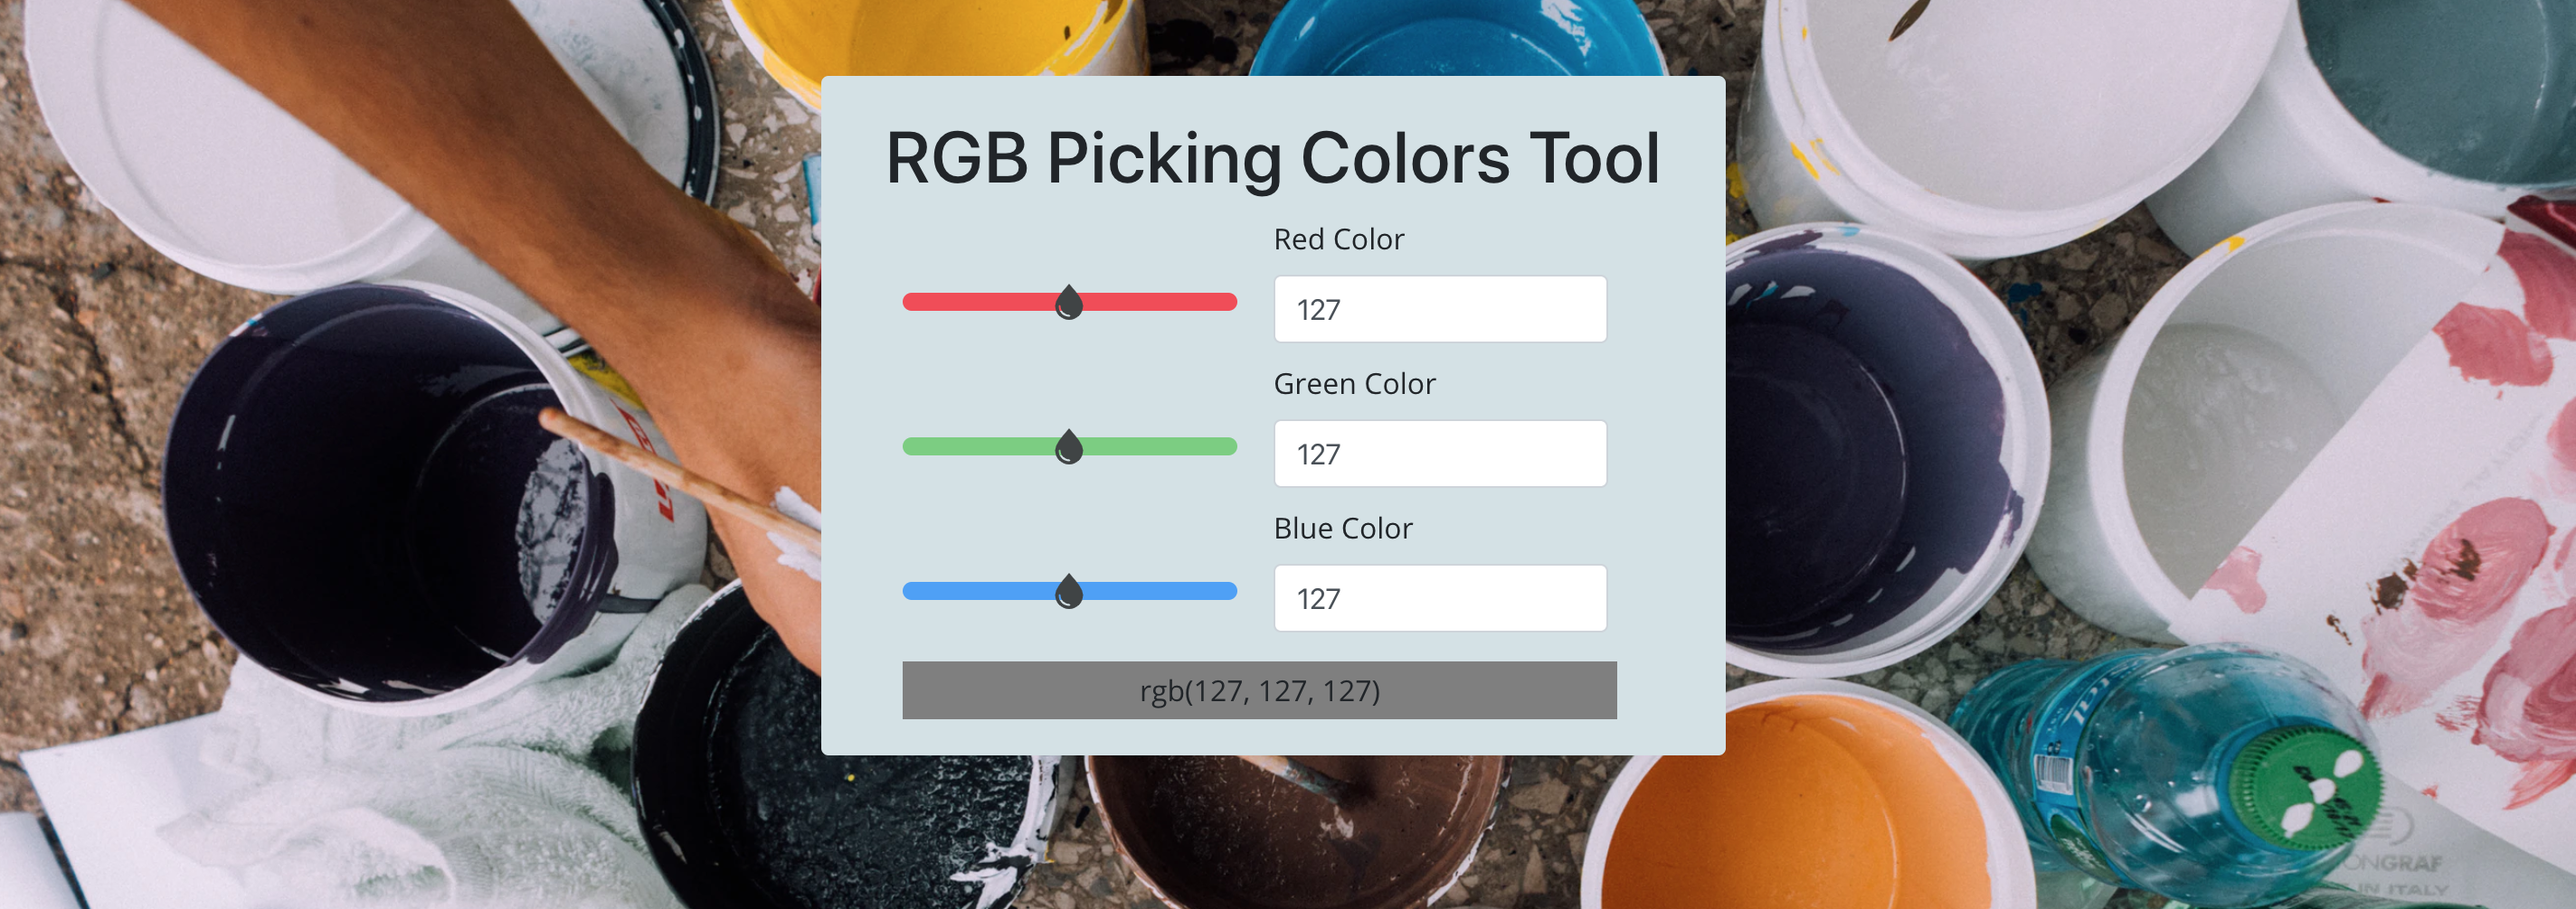
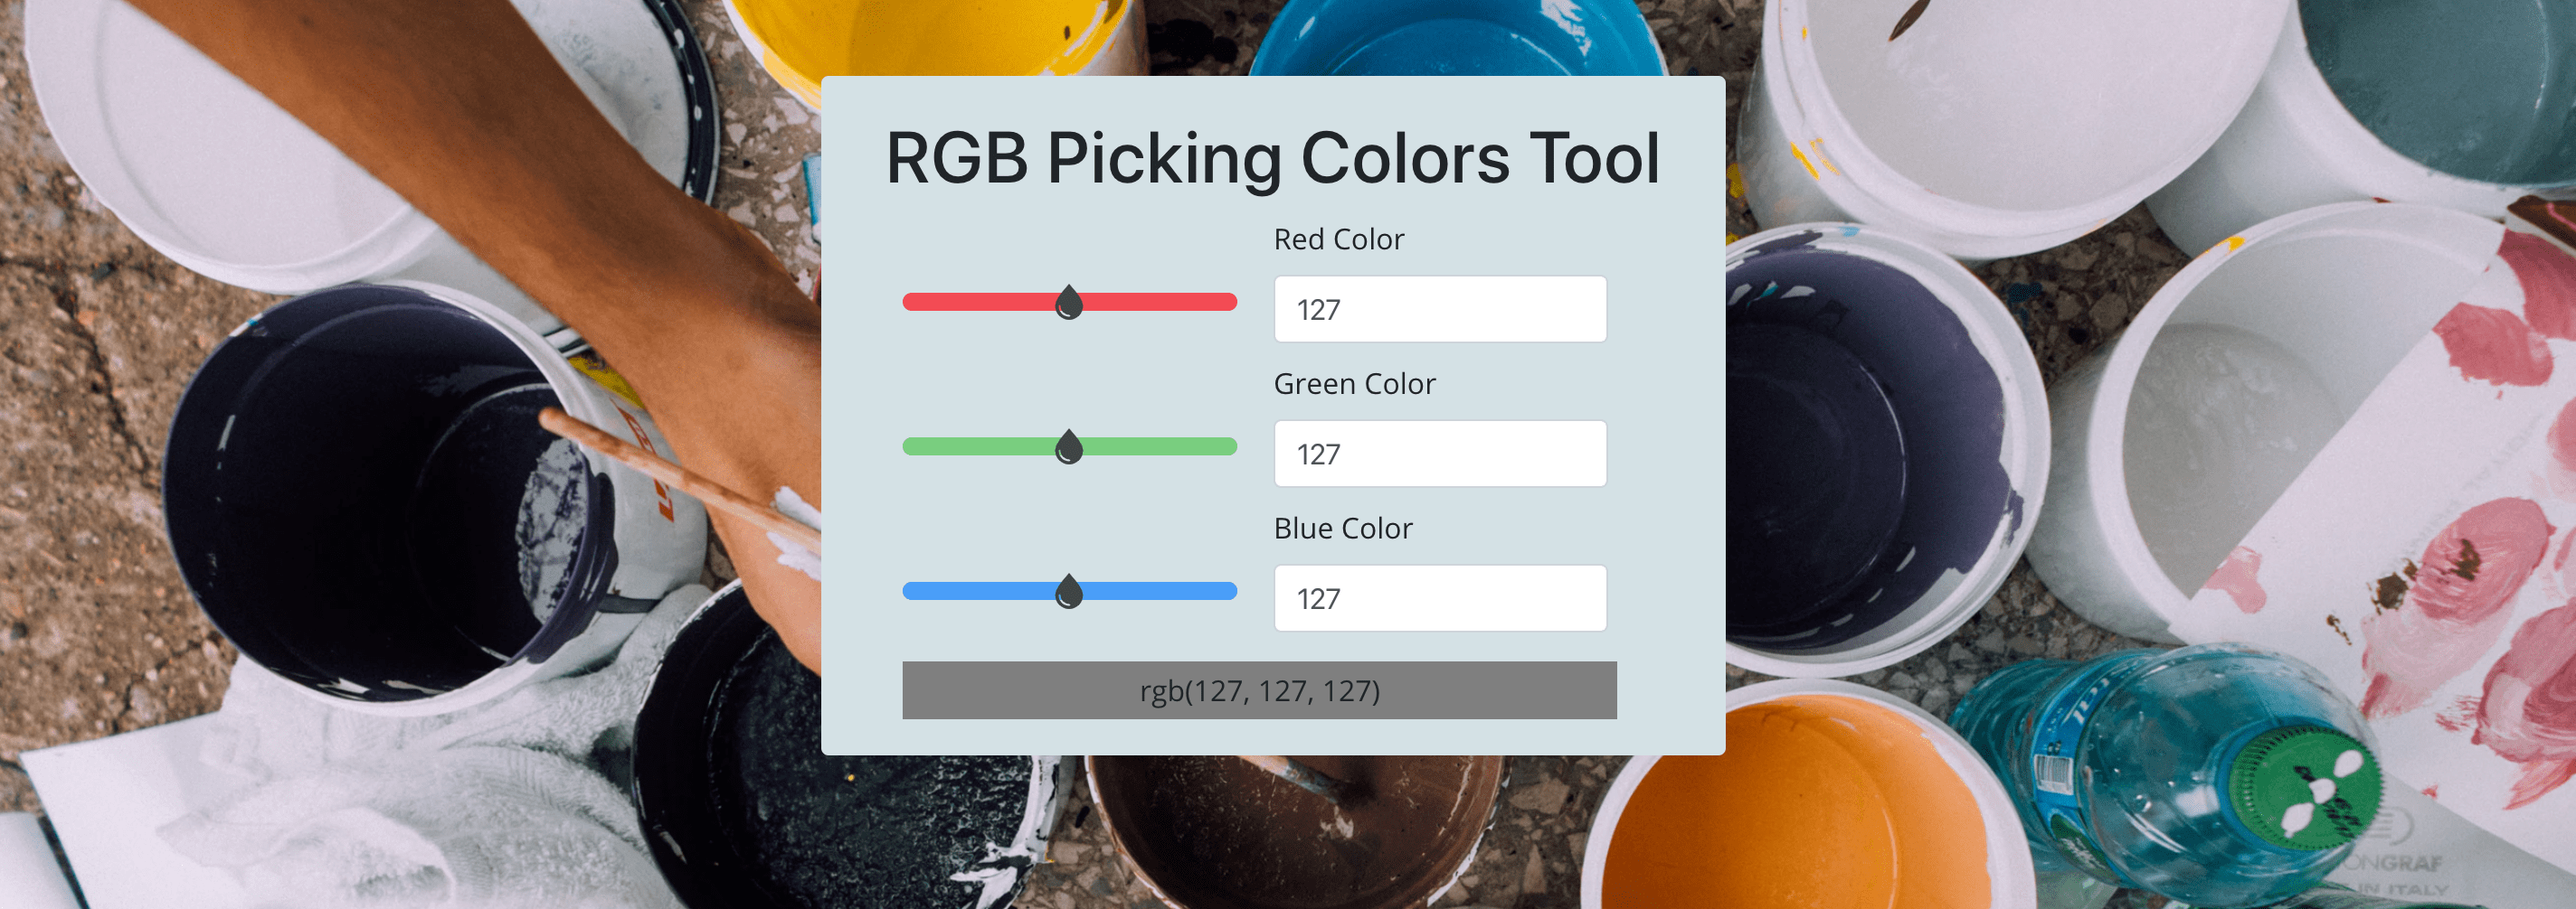
Reduced padding for smaller devices

Changed region(s): [[0.2812, 0.0, 0.4375, 0.0924], [0.6875, 0.9861, 0.7188, 1.0], [0.6875, 0.7704, 0.7188, 0.8012]]

diff --git a/styles.css b/styles.css
@@ -33,6 +33,12 @@ body {
   box-shadow: 0 4px 6px 0 hsla(0, 0%, 0%, 0.2);
 }
 
+@media only screen and (max-width: 576px) {
+  .content-box {
+    padding: 40px 40px;
+  }
+}
+
 .content-box-main {
   margin: 10px 0px;
   padding: 40px 40px;
@@ -44,6 +50,12 @@ body {
   justify-content: center;
   display: flex;
 }
+
+/* @media only screen and (max-width: 576px) {
+  .content-box-main {
+    padding: 40px 40px;
+  }
+} */
 
 img {
   max-width: 100%;
